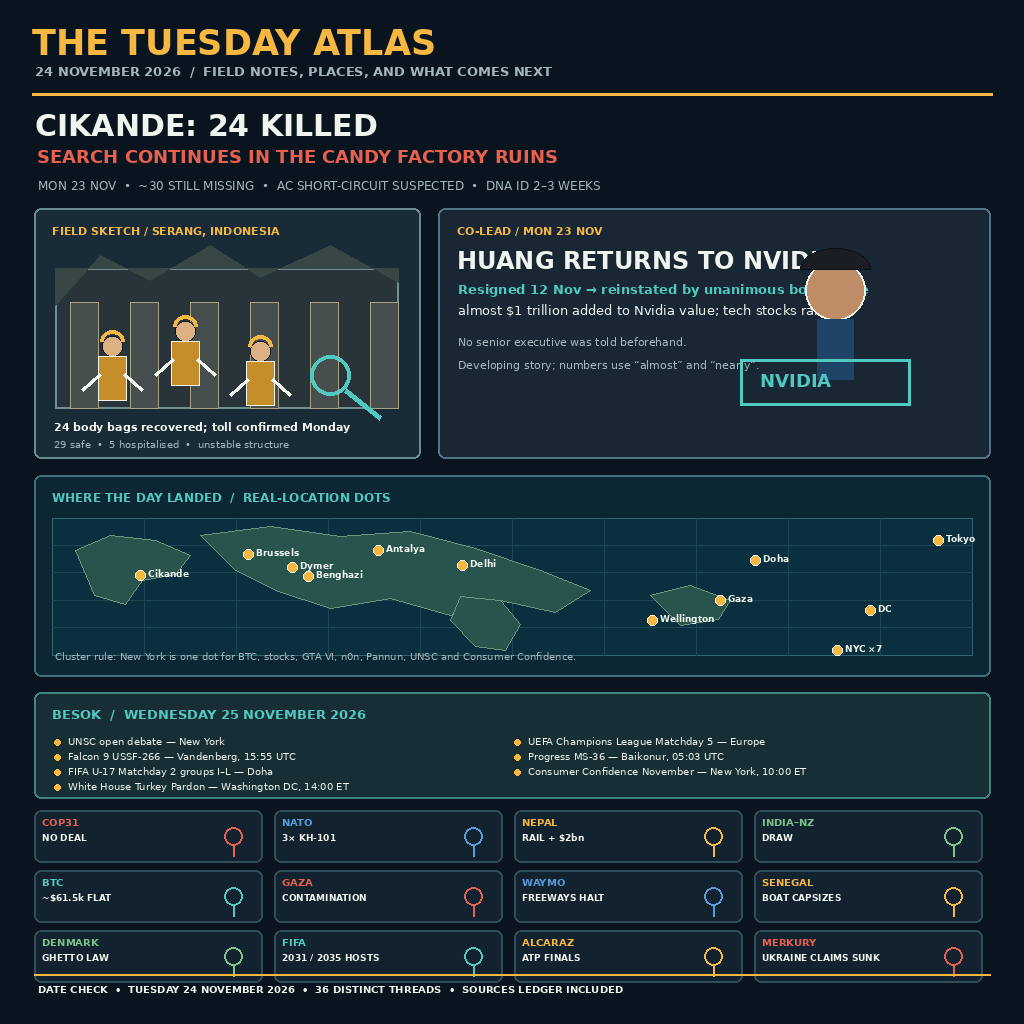
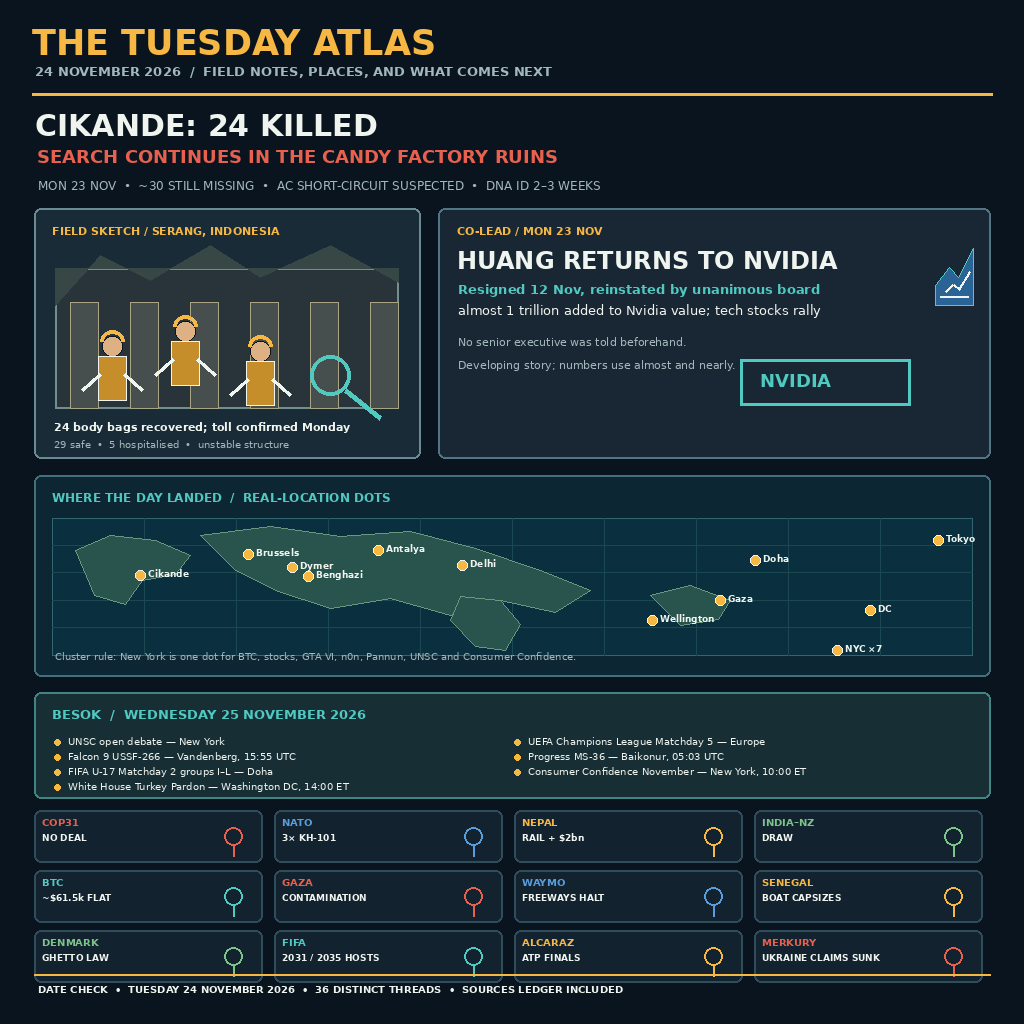
Fix Huang co-lead card illustration overlap

Changed region(s): [[0.5, 0.25, 0.8438, 0.375], [0.9062, 0.25, 0.9688, 0.3125], [0.625, 0.3438, 0.7188, 0.375]]

diff --git a/render.py b/render.py
@@ -12,8 +12,11 @@ d.polygon([(55,305),(100,255),(150,280),(210,245),(260,277),(330,245),(398,282),
 for x,y in [(112,370),(185,355),(260,375)]:
  d.ellipse((x-10,y-34,x+10,y-14),fill=(222,177,132),outline=(15,20,24)); d.arc((x-12,y-40,x+12,y-17),180,360,fill=GOLD,width=4); d.rectangle((x-14,y-14,x+14,y+30),fill=(197,142,43),outline=INK,width=1); d.line((x-12,y+4,x-30,y+20),fill=INK,width=3); d.line((x+12,y+4,x+30,y+20),fill=INK,width=3)
 d.ellipse((310,355,350,395),outline=CYAN,width=4); d.line((345,390,380,418),fill=CYAN,width=5); T(54,420,'24 body bags recovered; toll confirmed Monday',11,INK,1); T(54,438,'29 safe  •  5 hospitalised  •  unstable structure',10,MUTED)
-B((438,208,990,458),(25,39,52),(82,117,134)); T(457,224,'CO-LEAD / MON 23 NOV',11,GOLD,1); T(457,246,'HUANG RETURNS TO NVIDIA',24,INK,1); T(458,281,'Resigned 12 Nov → reinstated by unanimous board vote',13,CYAN,1); T(458,302,'almost $1 trillion added to Nvidia value; tech stocks rally',13,INK)
-d.ellipse((805,260,865,320),fill=(190,140,103),outline=INK,width=2); d.pieslice((800,248,870,290),180,360,fill=(26,30,36),outline=(10,15,20)); d.rectangle((817,319,853,379),fill=(30,69,103)); d.rectangle((740,359,910,405),outline=CYAN,width=3); T(760,370,'NVIDIA',18,CYAN,1); T(458,335,'No senior executive was told beforehand.',11,MUTED); T(458,358,'Developing story; numbers use “almost” and “nearly”.',11,MUTED)
+B((438,208,990,458),(25,39,52),(82,117,134)); T(457,224,'CO-LEAD / MON 23 NOV',11,GOLD,1); T(457,246,'HUANG RETURNS TO NVIDIA',24,INK,1); T(458,281,'Resigned 12 Nov, reinstated by unanimous board',13,CYAN,1); T(458,302,'almost 1 trillion added to Nvidia value; tech stocks rally',13,INK)
+# Small upward market mark in the spare right edge; the text column remains unobstructed.
+d.polygon([(935,285),(949,267),(958,277),(973,248),(973,305),(935,305)],fill=(42,100,151),outline=CYAN)
+d.line((940,296,968,296),fill=INK,width=2); d.line((946,291,953,284),fill=INK,width=2); d.line((953,284,959,289),fill=INK,width=2); d.line((959,289,970,271),fill=INK,width=2)
+d.rectangle((740,359,910,405),outline=CYAN,width=3); T(760,370,'NVIDIA',18,CYAN,1); T(458,335,'No senior executive was told beforehand.',11,MUTED); T(458,358,'Developing story; numbers use almost and nearly.',11,MUTED)
 B((34,475,990,676),(13,38,52),(67,111,122)); T(52,490,'WHERE THE DAY LANDED  /  REAL-LOCATION DOTS',12,CYAN,1); mx,my,mw,mh=52,518,920,137; d.rectangle((mx,my,mx+mw,my+mh),fill=(10,48,63),outline=(52,102,113))
 for i in range(1,10): d.line((mx+i*mw/10,my,mx+i*mw/10,my+mh),fill=(27,72,81))
 for i in range(1,5): d.line((mx,my+i*mh/5,mx+mw,my+i*mh/5),fill=(27,72,81))
